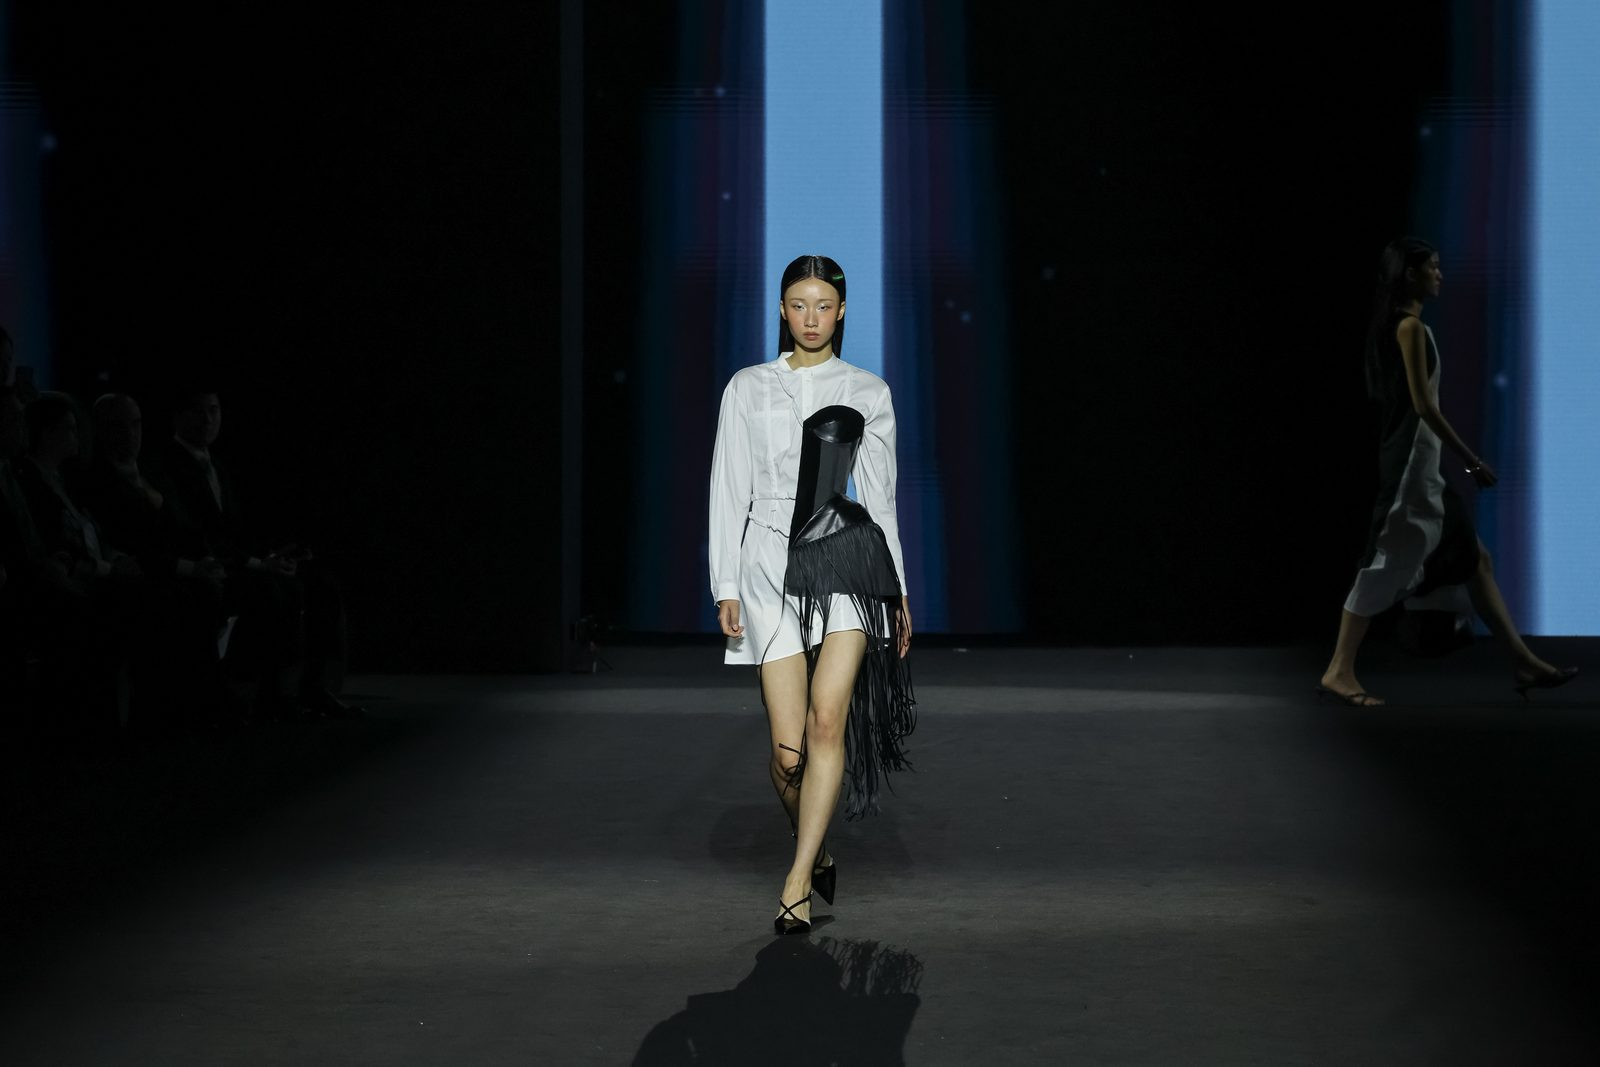
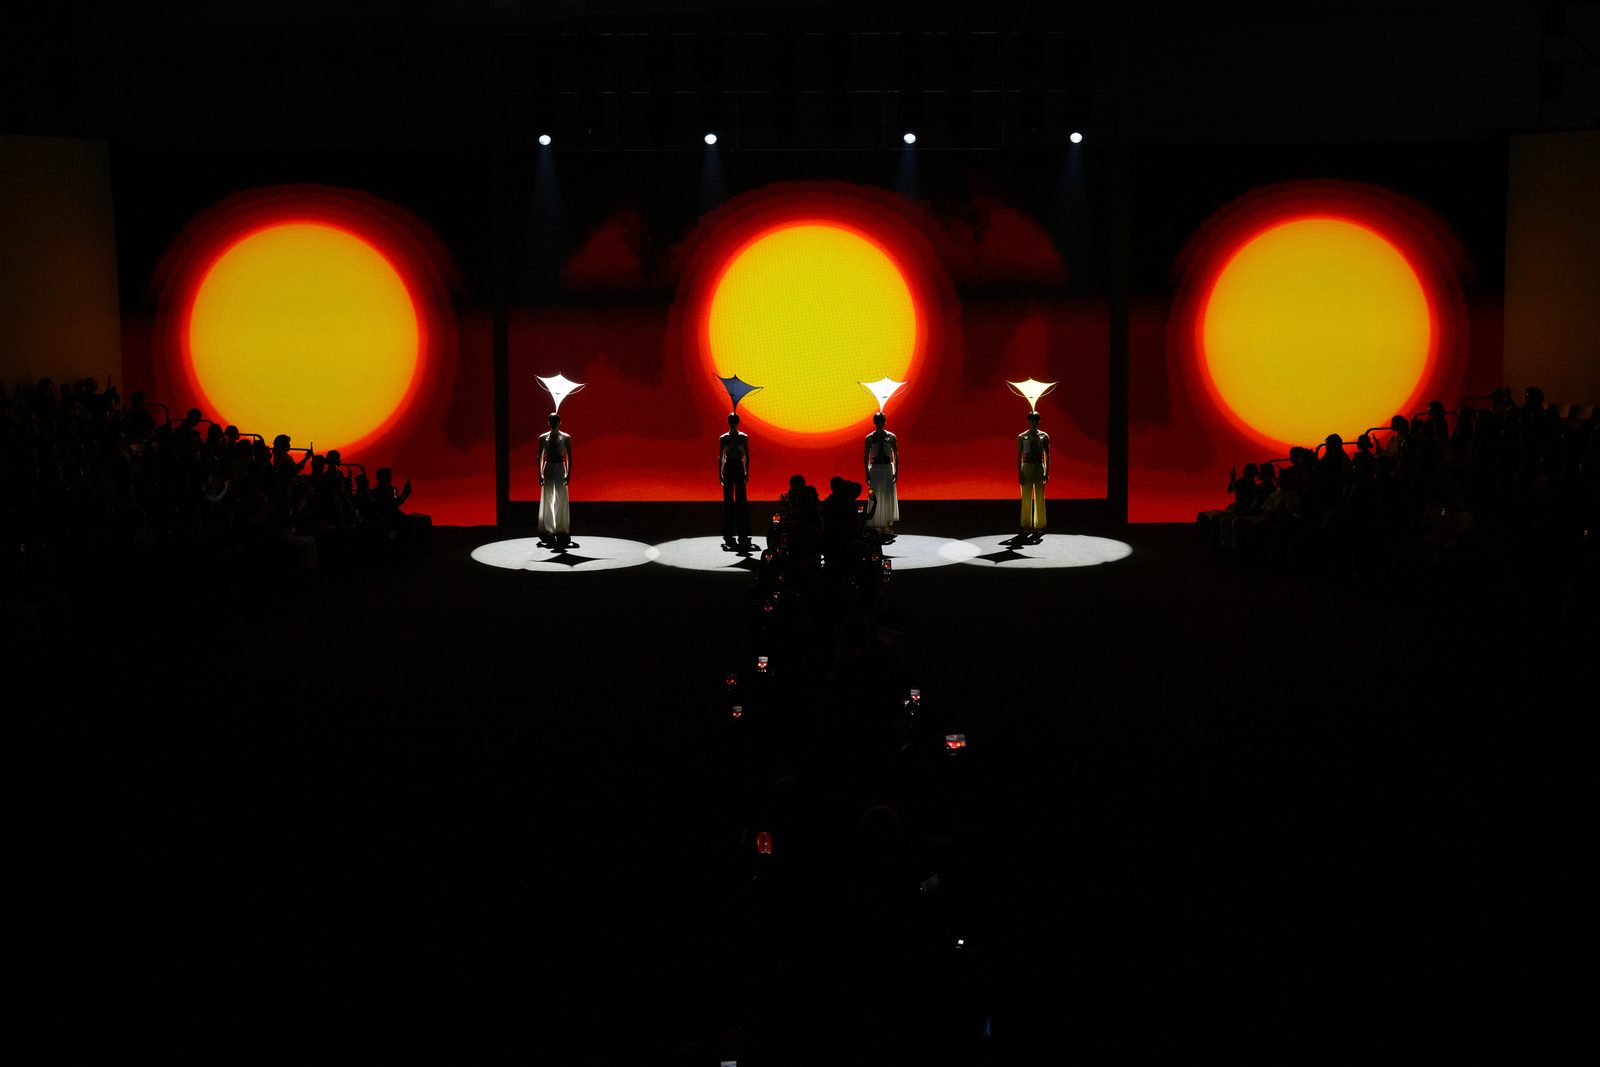
27SS: drop lookbook close-ups and extra show scenes; keep red stage and finale
Claude-Session: https://claude.ai/code/session_01Bs1wxDBAEjZhvDBkhAXViZ

diff --git a/27ss.html b/27ss.html
@@ -149,6 +149,10 @@
             .g-grid.cols-3.r-32 { grid-template-columns: 1fr; }
         }
 
+        .g-grid.center-last { display: flex; flex-wrap: wrap; justify-content: center; }
+        .g-grid.center-last .img-wrap { width: calc((100% - 4 * 14px) / 5); }
+        @media (max-width: 1100px) { .g-grid.center-last .img-wrap { width: calc((100% - 2 * 14px) / 3); } }
+        @media (max-width: 768px) { .g-grid.center-last .img-wrap { width: calc((100% - 8px) / 2); } }
         /* 원본보기 라이트박스 모달 스타일 */
         .lightbox-modal {
             display: none;
@@ -245,17 +249,14 @@
                   <div class="img-wrap"><img onerror="this.closest('.img-wrap').style.display='none'" src="images/27ss/27ss_design_02.jpg" alt="27ss tech 02"></div>
         </div>
 
-        <div class="gallery-section-title" data-slot="lb">Lookbook Editorial <small>15</small></div>
-        <div class="g-block"><div class="g-grid cols-5 r-23"><div class="img-wrap"><img src="images/27ss/lookbook_01.jpg" alt="27SS Lookbook 01" loading="lazy" decoding="async"></div><div class="img-wrap"><img src="images/27ss/lookbook_02.jpg" alt="27SS Lookbook 02" loading="lazy" decoding="async"></div><div class="img-wrap"><img src="images/27ss/lookbook_03.jpg" alt="27SS Lookbook 03" loading="lazy" decoding="async"></div><div class="img-wrap"><img src="images/27ss/lookbook_04.jpg" alt="27SS Lookbook 04" loading="lazy" decoding="async"></div><div class="img-wrap"><img src="images/27ss/lookbook_05.jpg" alt="27SS Lookbook 05" loading="lazy" decoding="async"></div><div class="img-wrap"><img src="images/27ss/lookbook_06.jpg" alt="27SS Lookbook 06" loading="lazy" decoding="async"></div><div class="img-wrap"><img src="images/27ss/lookbook_07.jpg" alt="27SS Lookbook 07" loading="lazy" decoding="async"></div><div class="img-wrap"><img src="images/27ss/lookbook_08.jpg" alt="27SS Lookbook 08" loading="lazy" decoding="async"></div><div class="img-wrap"><img src="images/27ss/lookbook_09.jpg" alt="27SS Lookbook 09" loading="lazy" decoding="async"></div><div class="img-wrap"><img src="images/27ss/lookbook_10.jpg" alt="27SS Lookbook 10" loading="lazy" decoding="async"></div><div class="img-wrap"><img src="images/27ss/lookbook_11.jpg" alt="27SS Lookbook 11" loading="lazy" decoding="async"></div><div class="img-wrap"><img src="images/27ss/lookbook_12.jpg" alt="27SS Lookbook 12" loading="lazy" decoding="async"></div><div class="img-wrap"><img src="images/27ss/lookbook_13.jpg" alt="27SS Lookbook 13" loading="lazy" decoding="async"></div><div class="img-wrap detail"><img src="images/27ss/lookbook_14.jpg" alt="27SS Lookbook 14" loading="lazy" decoding="async"></div><div class="img-wrap detail"><img src="images/27ss/lookbook_15.jpg" alt="27SS Lookbook 15" loading="lazy" decoding="async"></div></div></div>
+        <div class="gallery-section-title" data-slot="lb">Lookbook Editorial <small>13</small></div>
+        <div class="g-block"><div class="g-grid cols-5 r-23 center-last"><div class="img-wrap"><img src="images/27ss/lookbook_01.jpg" alt="27SS Lookbook 01" loading="lazy" decoding="async"></div><div class="img-wrap"><img src="images/27ss/lookbook_02.jpg" alt="27SS Lookbook 02" loading="lazy" decoding="async"></div><div class="img-wrap"><img src="images/27ss/lookbook_03.jpg" alt="27SS Lookbook 03" loading="lazy" decoding="async"></div><div class="img-wrap"><img src="images/27ss/lookbook_04.jpg" alt="27SS Lookbook 04" loading="lazy" decoding="async"></div><div class="img-wrap"><img src="images/27ss/lookbook_05.jpg" alt="27SS Lookbook 05" loading="lazy" decoding="async"></div><div class="img-wrap"><img src="images/27ss/lookbook_06.jpg" alt="27SS Lookbook 06" loading="lazy" decoding="async"></div><div class="img-wrap"><img src="images/27ss/lookbook_07.jpg" alt="27SS Lookbook 07" loading="lazy" decoding="async"></div><div class="img-wrap"><img src="images/27ss/lookbook_08.jpg" alt="27SS Lookbook 08" loading="lazy" decoding="async"></div><div class="img-wrap"><img src="images/27ss/lookbook_09.jpg" alt="27SS Lookbook 09" loading="lazy" decoding="async"></div><div class="img-wrap"><img src="images/27ss/lookbook_10.jpg" alt="27SS Lookbook 10" loading="lazy" decoding="async"></div><div class="img-wrap"><img src="images/27ss/lookbook_11.jpg" alt="27SS Lookbook 11" loading="lazy" decoding="async"></div><div class="img-wrap"><img src="images/27ss/lookbook_12.jpg" alt="27SS Lookbook 12" loading="lazy" decoding="async"></div><div class="img-wrap"><img src="images/27ss/lookbook_13.jpg" alt="27SS Lookbook 13" loading="lazy" decoding="async"></div></div></div>
 
         <div class="gallery-section-title" data-slot="show">Runway Looks <small>16</small></div>
         <div class="g-block"><div class="g-grid cols-4 r-23"><div class="img-wrap"><img src="images/27ss/runway_01.jpg" alt="27SS Runway Look 01" loading="lazy" decoding="async"></div><div class="img-wrap"><img src="images/27ss/runway_02.jpg" alt="27SS Runway Look 02" loading="lazy" decoding="async"></div><div class="img-wrap"><img src="images/27ss/runway_03.jpg" alt="27SS Runway Look 03" loading="lazy" decoding="async"></div><div class="img-wrap"><img src="images/27ss/runway_04.jpg" alt="27SS Runway Look 04" loading="lazy" decoding="async"></div><div class="img-wrap"><img src="images/27ss/runway_05.jpg" alt="27SS Runway Look 05" loading="lazy" decoding="async"></div><div class="img-wrap"><img src="images/27ss/runway_06.jpg" alt="27SS Runway Look 06" loading="lazy" decoding="async"></div><div class="img-wrap"><img src="images/27ss/runway_07.jpg" alt="27SS Runway Look 07" loading="lazy" decoding="async"></div><div class="img-wrap"><img src="images/27ss/runway_08.jpg" alt="27SS Runway Look 08" loading="lazy" decoding="async"></div><div class="img-wrap"><img src="images/27ss/runway_09.jpg" alt="27SS Runway Look 09" loading="lazy" decoding="async"></div><div class="img-wrap"><img src="images/27ss/runway_10.jpg" alt="27SS Runway Look 10" loading="lazy" decoding="async"></div><div class="img-wrap"><img src="images/27ss/runway_11.jpg" alt="27SS Runway Look 11" loading="lazy" decoding="async"></div><div class="img-wrap"><img src="images/27ss/runway_12.jpg" alt="27SS Runway Look 12" loading="lazy" decoding="async"></div><div class="img-wrap"><img src="images/27ss/runway_13.jpg" alt="27SS Runway Look 13" loading="lazy" decoding="async"></div><div class="img-wrap"><img src="images/27ss/runway_14.jpg" alt="27SS Runway Look 14" loading="lazy" decoding="async"></div><div class="img-wrap"><img src="images/27ss/runway_15.jpg" alt="27SS Runway Look 15" loading="lazy" decoding="async"></div><div class="img-wrap"><img src="images/27ss/runway_16.jpg" alt="27SS Runway Look 16" loading="lazy" decoding="async"></div></div></div>
 
-        <div class="gallery-section-title" data-slot="scene">Show Scenes <small>19</small></div>
-        <div class="g-block">
-            <div class="g-grid cols-4 r-23"><div class="img-wrap"><img src="images/27ss/moment_01.jpg" alt="27SS Show Moment 01" loading="lazy" decoding="async"></div><div class="img-wrap"><img src="images/27ss/moment_02.jpg" alt="27SS Show Moment 02" loading="lazy" decoding="async"></div><div class="img-wrap"><img src="images/27ss/moment_03.jpg" alt="27SS Show Moment 03" loading="lazy" decoding="async"></div><div class="img-wrap"><img src="images/27ss/moment_04.jpg" alt="27SS Show Moment 04" loading="lazy" decoding="async"></div></div>
-            <div class="g-grid cols-3 r-32"><div class="img-wrap"><img src="images/27ss/scene_01.jpg" alt="27SS Show Scene 01" loading="lazy" decoding="async"></div><div class="img-wrap"><img src="images/27ss/scene_02.jpg" alt="27SS Show Scene 02" loading="lazy" decoding="async"></div><div class="img-wrap"><img src="images/27ss/scene_03.jpg" alt="27SS Show Scene 03" loading="lazy" decoding="async"></div><div class="img-wrap"><img src="images/27ss/scene_04.jpg" alt="27SS Show Scene 04" loading="lazy" decoding="async"></div><div class="img-wrap"><img src="images/27ss/scene_05.jpg" alt="27SS Show Scene 05" loading="lazy" decoding="async"></div><div class="img-wrap"><img src="images/27ss/scene_06.jpg" alt="27SS Show Scene 06" loading="lazy" decoding="async"></div><div class="img-wrap"><img src="images/27ss/scene_07.jpg" alt="27SS Show Scene 07" loading="lazy" decoding="async"></div><div class="img-wrap"><img src="images/27ss/scene_08.jpg" alt="27SS Show Scene 08" loading="lazy" decoding="async"></div><div class="img-wrap"><img src="images/27ss/scene_09.jpg" alt="27SS Show Scene 09" loading="lazy" decoding="async"></div><div class="img-wrap"><img src="images/27ss/scene_10.jpg" alt="27SS Show Scene 10" loading="lazy" decoding="async"></div><div class="img-wrap"><img src="images/27ss/scene_11.jpg" alt="27SS Show Scene 11" loading="lazy" decoding="async"></div><div class="img-wrap"><img src="images/27ss/scene_12.jpg" alt="27SS Show Scene 12" loading="lazy" decoding="async"></div><div class="img-wrap"><img src="images/27ss/scene_13.jpg" alt="27SS Show Scene 13" loading="lazy" decoding="async"></div><div class="img-wrap"><img src="images/27ss/scene_14.jpg" alt="27SS Show Scene 14" loading="lazy" decoding="async"></div><div class="img-wrap"><img src="images/27ss/scene_15.jpg" alt="27SS Show Scene 15" loading="lazy" decoding="async"></div></div>
-        </div>
+        <div class="gallery-section-title" data-slot="scene">Show Scenes <small>03</small></div>
+        <div class="g-block"><div class="g-grid cols-3 r-32"><div class="img-wrap"><img src="images/27ss/scene_01.jpg" alt="27SS Show — Red stage" loading="lazy" decoding="async"></div><div class="img-wrap"><img src="images/27ss/scene_02.jpg" alt="27SS Show — Red stage" loading="lazy" decoding="async"></div><div class="img-wrap"><img src="images/27ss/scene_03.jpg" alt="27SS Show — Finale" loading="lazy" decoding="async"></div></div></div>
 
         <div class="gallery-section-title" data-slot="bs">Backstage <small>05</small></div>
         <div class="g-block"><div class="g-grid cols-3 r-23 bs"><div class="img-wrap"><img src="images/27ss/backstage_01.jpg" alt="27SS Backstage 01" loading="lazy" decoding="async"></div><div class="img-wrap"><img src="images/27ss/backstage_02.jpg" alt="27SS Backstage 02" loading="lazy" decoding="async"></div><div class="img-wrap"><img src="images/27ss/backstage_03.jpg" alt="27SS Backstage 03" loading="lazy" decoding="async"></div><div class="img-wrap"><img src="images/27ss/backstage_04.jpg" alt="27SS Backstage 04" loading="lazy" decoding="async"></div><div class="img-wrap wide"><img src="images/27ss/backstage_05.jpg" alt="27SS Backstage 05" loading="lazy" decoding="async"></div></div></div>
